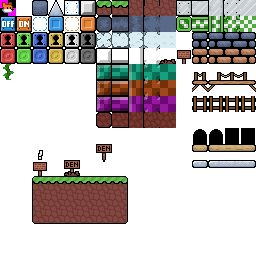
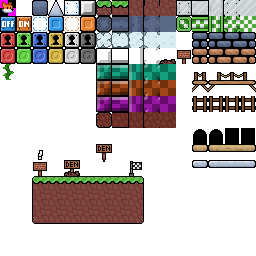
spawn/finish, other fixes

Changed region(s): [[0.4688, 0.625, 0.5625, 0.875]]

diff --git a/src/editor/level_view.rs b/src/editor/level_view.rs
@@ -27,8 +27,6 @@ pub struct LevelView {
     sign_popup: Option<SignPopup>,
     // The sign being cut
     cut_sign: Option<[String; 4]>,
-    // The door start position, used for the two stages of adding a door
-    door_start: Option<Vec2>,
 
     // TODO: Replace the camera with an editor player that flies about the scene and the view is focused on them
     // When you test the level midway through it spawns you there rather than at the default spawn
@@ -60,7 +58,6 @@ impl LevelView {
             object_selector: ObjectSelector::new(resources),
             sign_popup: None,
             cut_sign: None,
-            door_start: None,
             camera: EditorCamera::default()
         }
     }
@@ -69,8 +66,8 @@ impl LevelView {
         self.camera.reset_pos();
     }
 
-    pub fn update_resize_buttons(&mut self, editor_level: &mut EditorLevel, ui: &mut Ui) {
-        // i KNOW i copy some code here... just let me live man
+    fn update_resize_buttons(&mut self, editor_level: &mut EditorLevel, ui: &mut Ui) {
+        // i KNOW i copy some code here from the draw function... just let me live man
         let level_size = vec2(editor_level.width() as f32, editor_level.height() as f32) * 16.0;
         let left_edge  = -self.camera.pos().floor().x - 0.5;
         let right_edge = -self.camera.pos().floor().x + 0.5 + level_size.x;
@@ -178,7 +175,7 @@ impl LevelView {
             let object = self.object_selector.update(ui);
             // If the user clicked on something, choose it and close the menu
             if let Some(object) = object {
-                self.door_start = None;
+                editor_level.set_door_start(None);
                 self.selected_object = object;
                 self.object_selector.set_active(false);
             } else {
@@ -294,8 +291,8 @@ impl LevelView {
                     // If we press right click and we're adding a door, stop
                     // If we're not adding a door though, try to remove a door if ONLY it's pos is here, not it's dest
                     if is_mouse_button_pressed(MouseButton::Right) {
-                        if self.door_start.is_some() {
-                            self.door_start = None;
+                        if editor_level.door_start().is_some() {
+                            editor_level.set_door_start(None);
                         } else {
                             editor_level.try_remove_door(cursor_pos);
                         }
@@ -304,14 +301,24 @@ impl LevelView {
                     // If we've already put a start position, finish the door!!
                     // If we've not put a start position down, do that (unless it's on a door.. in that case do nothing idk)
                     if is_mouse_button_pressed(MouseButton::Left) {
-                        if let Some(door_start) = self.door_start {
+                        if let Some(door_start) = editor_level.door_start() {
                             editor_level.add_door(door_start, cursor_pos);
-                            self.door_start = None;
+                            editor_level.set_door_start(None);
                         } else {
                             if !editor_level.doors().iter().any(|d| d.pos() == cursor_pos) {
-                                self.door_start = Some(cursor_pos);
+                                editor_level.set_door_start(Some(cursor_pos));
                             }
                         }
+                    }
+                }
+                // Spawn point / finish point
+                else if let Object::Other(OtherKind::Spawn) = self.selected_object {
+                    if is_mouse_button_pressed(MouseButton::Left) {
+                        editor_level.set_spawn(cursor_pos);
+                    }
+                } else if let Object::Other(OtherKind::Finish) = self.selected_object {
+                    if is_mouse_button_pressed(MouseButton::Left) {
+                        editor_level.set_finish(cursor_pos);
                     }
                 }
             }
@@ -387,9 +394,12 @@ impl LevelView {
             draw_from_atlas(dest, Rect::new(208.0, 0.0, 16.0, 16.0));
             draw_line(pos.x + 8.0, pos.y + 8.0, dest.x + 8.0, dest.y + 8.0, 1.0, Color::from_rgba(255, 0, 255, 128));
         }
-        if let Some(door_start) = self.door_start {
+        if let Some(door_start) = editor_level.door_start() {
             draw_from_atlas(door_start - self.camera.pos().floor(), Rect::new(224.0, 0.0, 16.0, 16.0));
         }
+
+        draw_from_atlas(editor_level.spawn()  - self.camera.pos().floor(), Rect::new(208.0, 16.0, 16.0, 16.0));
+        draw_from_atlas(editor_level.finish() - self.camera.pos().floor(), Rect::new(240.0, 16.0, 16.0, 16.0));
 
         // Draw the tile/entity the player is adding
         if let Some(pos) = self.cursor_pos {
@@ -420,8 +430,8 @@ impl LevelView {
                     _ => WHITE,
                 };
                 let transparent = match other {
-                    OtherKind::Sign => true,
-                    _ => false,
+                    OtherKind::Door => false,
+                    _ => true,
                 };
                 draw_outline(vec2(16.0, 16.0), outline_col);
                 ObjectSelector::draw_object_other(pos.floor() - self.camera.pos().floor(), other, transparent, resources);

diff --git a/src/editor/editor_level.rs b/src/editor/editor_level.rs
@@ -12,8 +12,13 @@ pub struct EditorLevel {
     physics: LevelPhysics,
 
     signs: Vec<Sign>,
+    // The door start position, used for the two stages of adding a door
+    door_start: Option<Vec2>,
     // Jim Morrison called...
     doors: Vec<Door>,
+    spawn:  Vec2,
+    finish: Vec2,
+
 
     // Rendering stuff
     tiles_below: Vec<TileRenderData>,
@@ -31,8 +36,13 @@ const MAX_HEIGHT: usize = 256;
 impl Default for EditorLevel {
     fn default() -> Self {
         let (width, height) = (MIN_WIDTH, MIN_HEIGHT);
-        let tiles    = vec![Tile::Empty; width * height];
-        let tiles_bg = vec![Tile::Empty; width * height];
+        let mut tiles = vec![Tile::Empty; width * height];
+        let tiles_bg  = vec![Tile::Empty; width * height];
+
+        // Put some platforms down for the default spawn and finish points
+        for x in [2, 3, 4, 9, 10, 11, 12, 17, 18, 19] {
+            tiles[width*8+x] = Tile::Grass;
+        }
 
         /*
         // Silly little start level
@@ -73,7 +83,10 @@ impl Default for EditorLevel {
             physics: LevelPhysics::Air,
 
             signs: vec![],
+            door_start: None,
             doors: vec![],
+            spawn:  Vec2::new( 3.0, 7.0) * 16.0,
+            finish: Vec2::new(18.0, 7.0) * 16.0,
 
             tiles_above:      vec![],
             tiles_below:      vec![],
@@ -114,6 +127,13 @@ impl EditorLevel {
         self.signs.retain(|s| s.pos() != pos);
     }
 
+    pub fn door_start(&self) -> Option<Vec2> {
+        self.door_start
+    }
+    pub fn set_door_start(&mut self, door_start: Option<Vec2>) {
+        self.door_start = door_start;
+    }
+
     pub fn doors(&self) -> &Vec<Door> {
         &self.doors
     }
@@ -122,6 +142,20 @@ impl EditorLevel {
     }
     pub fn try_remove_door(&mut self, pos: Vec2) {
         self.doors.retain(|d| d.pos() != pos);
+    }
+
+    pub fn spawn(&self) -> Vec2 {
+        self.spawn
+    }
+    pub fn set_spawn(&mut self, spawn: Vec2) {
+        self.spawn = spawn;
+    }
+
+    pub fn finish(&self) -> Vec2 {
+        self.finish
+    }
+    pub fn set_finish(&mut self, finish: Vec2) {
+        self.finish = finish;
     }
 
     // This doesn't check if pos is valid and could crash if it's not,
@@ -153,9 +187,38 @@ impl EditorLevel {
         for d in &mut self.doors {
             d.translate(offset);
         }
+        self.spawn += offset;
+        self.finish += offset;
+        self.door_start = self.door_start.map(|p| p + offset);
+    }
+
+    fn handle_out_of_bounds_entities(&mut self) {
+        let max = (vec2(self.width as f32, self.height as f32) - 1.0) * 16.0;
+        let should_remove = |pos: Vec2| -> bool {
+            pos.x < 0.0 || pos.x > max.x || pos.y < 0.0 || pos.y > max.y
+        };
+
+        // Remove all out-of-bounds signs, doors, door start, checkpoints
+        for i in (0..self.signs.len()).rev() {
+            if should_remove(self.signs[i].pos()) {
+                self.signs.remove(i);
+            }
+        }
+        for i in (0..self.doors.len()).rev() {
+            if should_remove(self.doors[i].pos()) || should_remove(self.doors[i].dest()) {
+                self.doors.remove(i);
+            }
+        }
+        if self.door_start.is_some_and(|p| should_remove(p)) {
+            self.door_start = None;
+        }
+        
+        // Clamp the spawn and finish since they can never be destroyed because im laaaaazy :3
+        self.spawn  = self.spawn .clamp(Vec2::ZERO, max);
+        self.finish = self.finish.clamp(Vec2::ZERO, max);
     }
     
-    // TODO: Make it so when entities go off the edge of the level when moving the border, they get removed!!!!
+    // TODO: Make it so when entities go off the edge of the level when moving the border, they get removed!!!! (or spawn/finish get clamped)
     pub fn move_left_border(&mut self, increase: bool) {
         if !self.can_change_width(increase) {
             return;
@@ -181,6 +244,7 @@ impl EditorLevel {
             self.width -= 1;
             // Move all the entities
             self.translate_all_entities(vec2(-16.0, 0.0));
+            self.handle_out_of_bounds_entities();
         }
         self.should_update_render_data = true;
     }
@@ -210,6 +274,7 @@ impl EditorLevel {
             // Move the camera and decrease the width
             self.width -= 1;
             camera.set_pos(camera.pos() - vec2(16.0, 0.0), self);
+            self.handle_out_of_bounds_entities();
         }
         self.should_update_render_data = true;
     }
@@ -237,6 +302,7 @@ impl EditorLevel {
             self.height -= 1;
             // Move all the entities
             self.translate_all_entities(vec2(0.0, -16.0));
+            self.handle_out_of_bounds_entities();
         }
         self.should_update_render_data = true;
     }
@@ -262,6 +328,7 @@ impl EditorLevel {
             // Move the camera and decrease the height
             self.height -= 1;
             camera.set_pos(camera.pos() - vec2(0.0, 16.0), self);
+            self.handle_out_of_bounds_entities();
         }
         self.should_update_render_data = true;
     }

diff --git a/src/editor/object_selector.rs b/src/editor/object_selector.rs
@@ -23,6 +23,8 @@ pub enum EntityKind {
 pub enum OtherKind {
     Door,
     Sign,
+    Spawn,
+    Finish,
 }
 
 pub struct ObjectSelector {
@@ -63,7 +65,7 @@ impl ObjectSelector {
         // Add all of the tiles
         let wrap = 17;
         let mut x = 8.0;
-        let mut y = 16.0;
+        let mut y = 26.0;
         for (i, t) in tiles.iter().enumerate() {
             let button = Button::new(Rect::new(x, y, 16.0, 16.0), None, Some(resources.tile_data_manager().data(*t).name().clone()));
 
@@ -79,9 +81,9 @@ impl ObjectSelector {
         // TODO: ....
 
         // Add the others
-        let others = vec![OtherKind::Sign, OtherKind::Door];
+        let others = vec![OtherKind::Sign, OtherKind::Door, OtherKind::Spawn, OtherKind::Finish];
         let mut x = 8.0;
-        let mut y = 172.0;
+        let mut y = 182.0;
         for (i, o) in others.iter().enumerate() {
             let button = Button::new(Rect::new(x, y, 16.0, 16.0), None, Some(format!("{:?}", o)));
             x += 20.0;
@@ -115,10 +117,11 @@ impl ObjectSelector {
 
     pub fn draw(&self, resources: &Resources) {
         draw_rectangle(0.0, 0.0, VIEW_SIZE.x, VIEW_SIZE.y, BG_COL);
+        render_text("Object Selector", WHITE, vec2(VIEW_SIZE.x/2.0, 7.0), vec2(1.0, 1.0), Align::Mid, Font::Small, resources);
 
-        render_text("Tiles:",    WHITE, vec2(4.0,   4.0), vec2(1.0, 1.0), Align::End, Font::Small, resources);
-        render_text("Entities:", WHITE, vec2(4.0,  80.0), vec2(1.0, 1.0), Align::End, Font::Small, resources);
-        render_text("Others:",   WHITE, vec2(4.0, 160.0), vec2(1.0, 1.0), Align::End, Font::Small, resources);
+        render_text("Tiles:",    WHITE, vec2(4.0,  14.0), vec2(1.0, 1.0), Align::End, Font::Small, resources);
+        render_text("Entities:", WHITE, vec2(4.0,  90.0), vec2(1.0, 1.0), Align::End, Font::Small, resources);
+        render_text("Others:",   WHITE, vec2(4.0, 170.0), vec2(1.0, 1.0), Align::End, Font::Small, resources);
         for (object, b) in self.object_buttons.iter() {
             let pos = b.rect().point() + match b.state() {
                 ButtonState::Hovered => -Vec2::ONE,
@@ -150,8 +153,10 @@ impl ObjectSelector {
             });
         };
         match other {
-            OtherKind::Door => draw_from_atlas(Rect::new(192.0, 0.0, 16.0, 16.0)),
-            OtherKind::Sign => draw_from_atlas(Rect::new(240.0, 0.0, 16.0, 16.0)),
+            OtherKind::Door   => draw_from_atlas(Rect::new(192.0,  0.0, 16.0, 16.0)),
+            OtherKind::Sign   => draw_from_atlas(Rect::new(240.0,  0.0, 16.0, 16.0)),
+            OtherKind::Spawn  => draw_from_atlas(Rect::new(208.0, 16.0, 16.0, 16.0)),
+            OtherKind::Finish => draw_from_atlas(Rect::new(240.0, 16.0, 16.0, 16.0)),
         }
     }
 }

diff --git a/src/editor/sign_popup.rs b/src/editor/sign_popup.rs
@@ -96,7 +96,7 @@ impl SignPopup {
             if first_del {
                 self.lines[self.line].pop();
             } else {
-                while self.backspace_timer.is_some_and(|t| t < 0.0) {
+                if self.backspace_timer.is_some_and(|t| t < 0.0) {
                     self.lines[self.line].pop();
                     self.backspace_timer = Some(BACKSPACE_TIMER_OTHER);
                 }

diff --git a/src/ui/mod.rs b/src/ui/mod.rs
@@ -117,6 +117,7 @@ impl Button {
     pub fn update(&mut self, ui: &mut Ui) {
         // Don't update disabled buttons
         if self.disabled {
+            self.state = ButtonState::Idle;
             return;
         }
         // If the mouse isn't over the button, make it idle and return!
